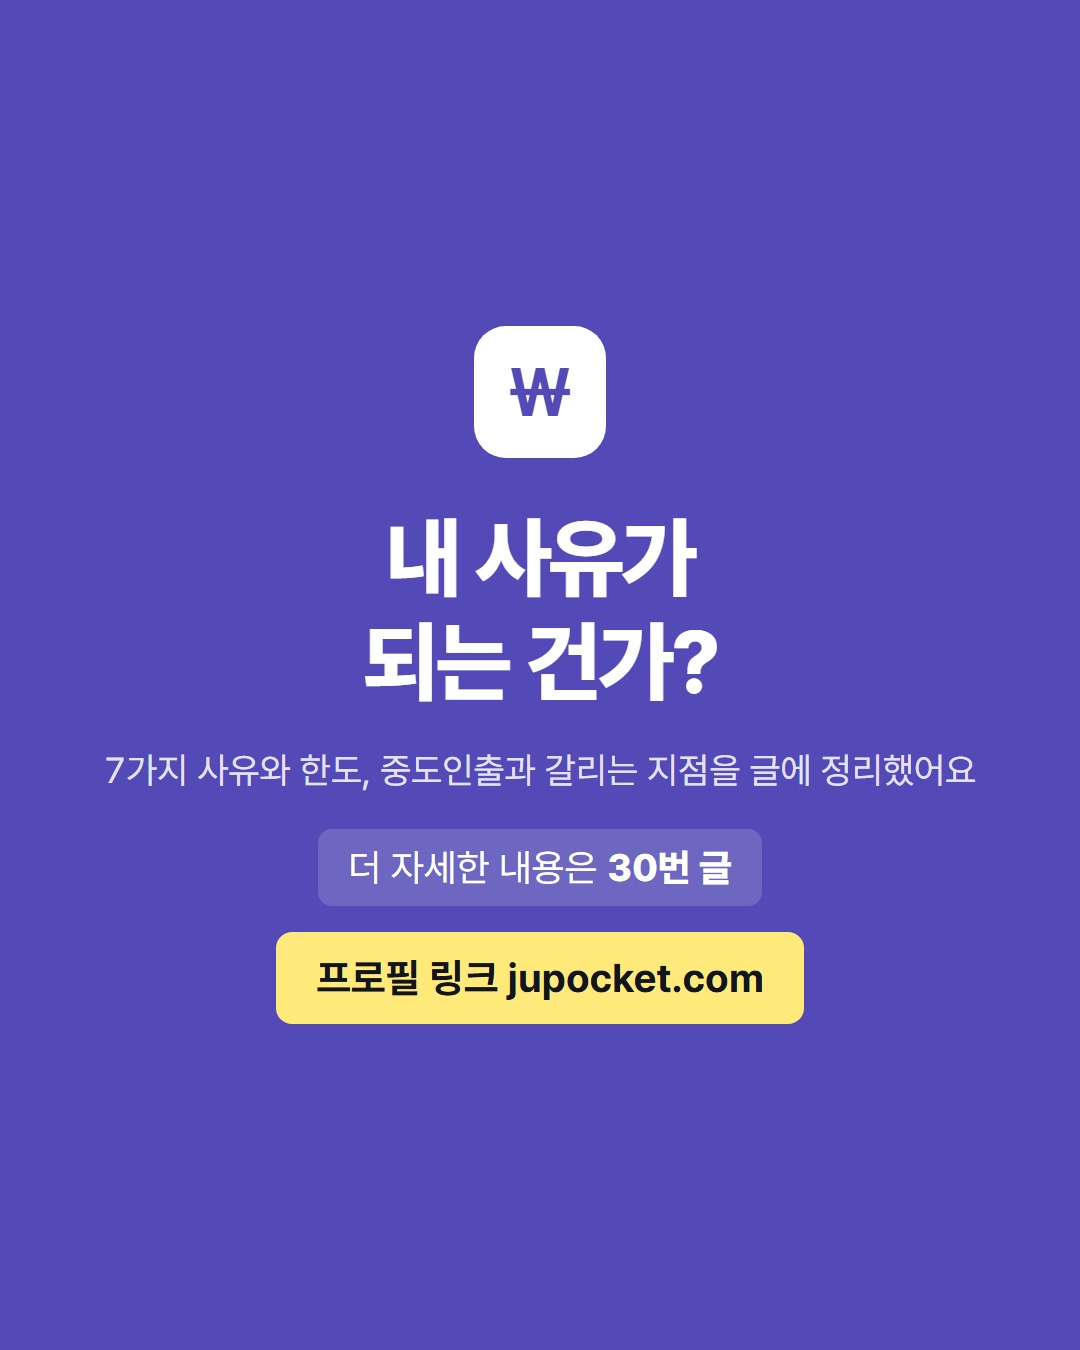
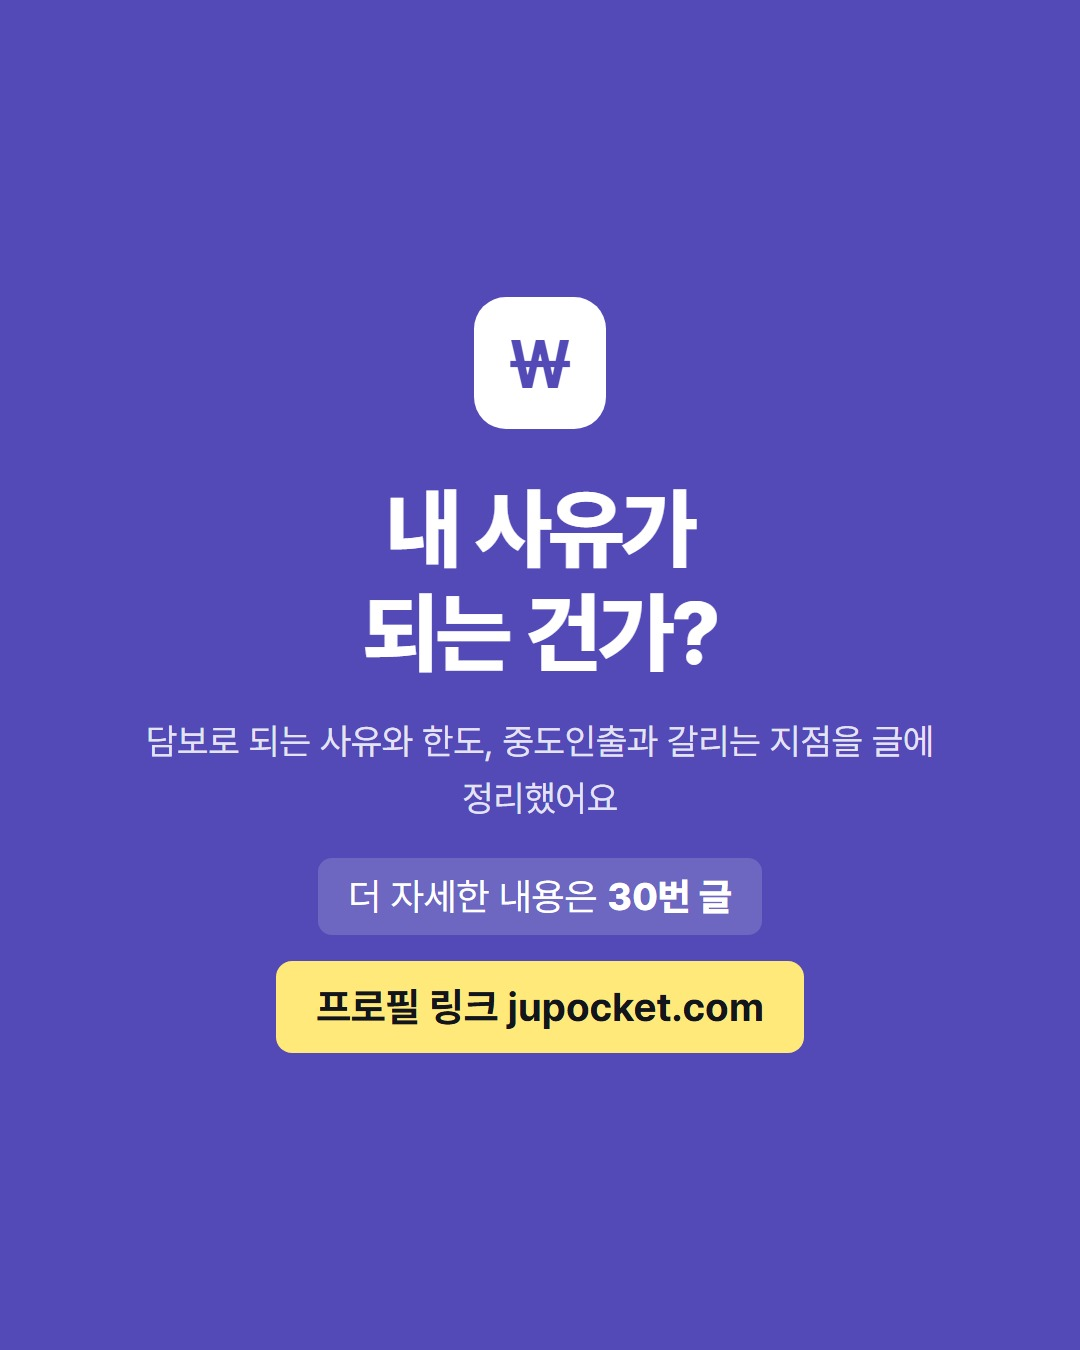
fix: 담보대출 비과세는 구조적 판단이라고 밝히고, 카드의 "7가지"를 뺀다
둘 다 아직 게시 전이라 지금 고칠 수 있다.

1. 글의 비교표가 "담보대출은 인출이 아니므로 세금이 생기지 않는다" 고
   적는다. 이건 맞는 추론이지만 조문에서 확인한 것이 아니다. 같은 표의
   중도인출 세율은 금감원 원문에서 온 값이라, 둘이 같은 확신도로 나란히
   서 있었다. notVerified 에 적어 글의 "금리는 얼마인가요?" 절에 같이
   나오게 했다 — 확인 안 한 것을 목록으로 내보내는 자리가 이미 있다.

2. 목록 카드는 6줄인데 마지막 장이 "7가지 사유" 라고 말하고 있었다.
   시행령의 호는 실제로 일곱이지만, 같은 캐러셀을 넘기며 1~6을 센
   독자에게는 그냥 틀린 말이다. 이미지는 회수가 안 되므로 지금 뺀다.

Changed region(s): [[0.0917, 0.2178, 0.9167, 0.8089]]

diff --git a/src/data/cards.ts b/src/data/cards.ts
@@ -816,7 +816,7 @@ export const cardSets: CardSet[] = [
       {
         kind: "cta",
         title: "내 사유가\n되는 건가?",
-        sub: "7가지 사유와 한도, 중도인출과 갈리는 지점을 글에 정리했어요",
+        sub: "담보로 되는 사유와 한도, 중도인출과 갈리는 지점을 글에 정리했어요",
         refNo: 30,
       },
     ],
